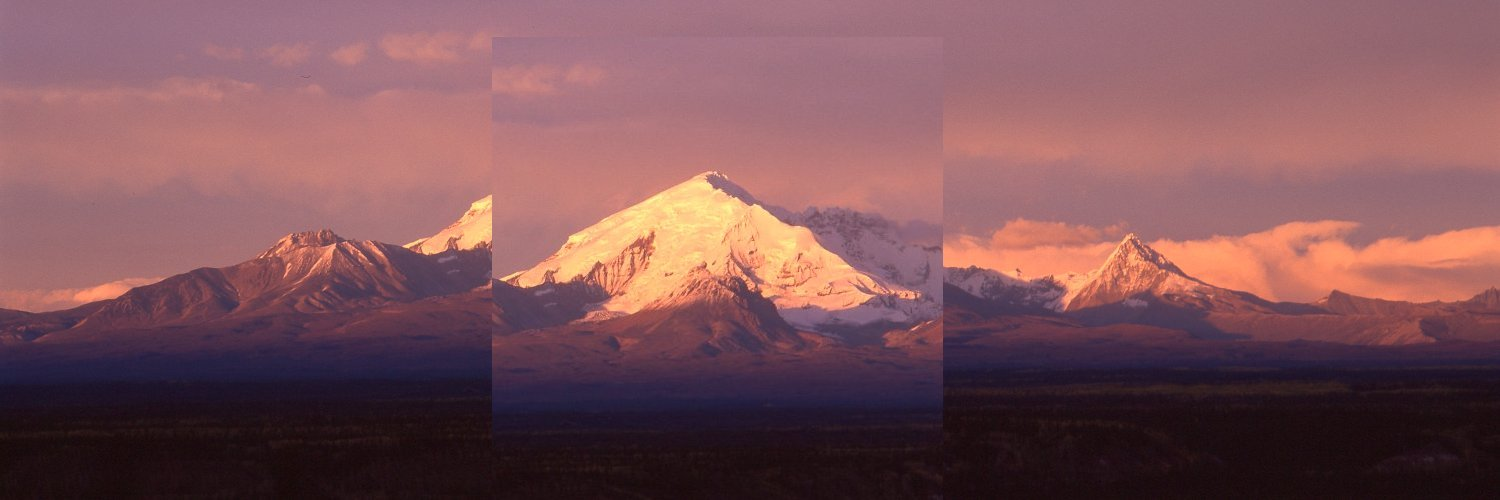
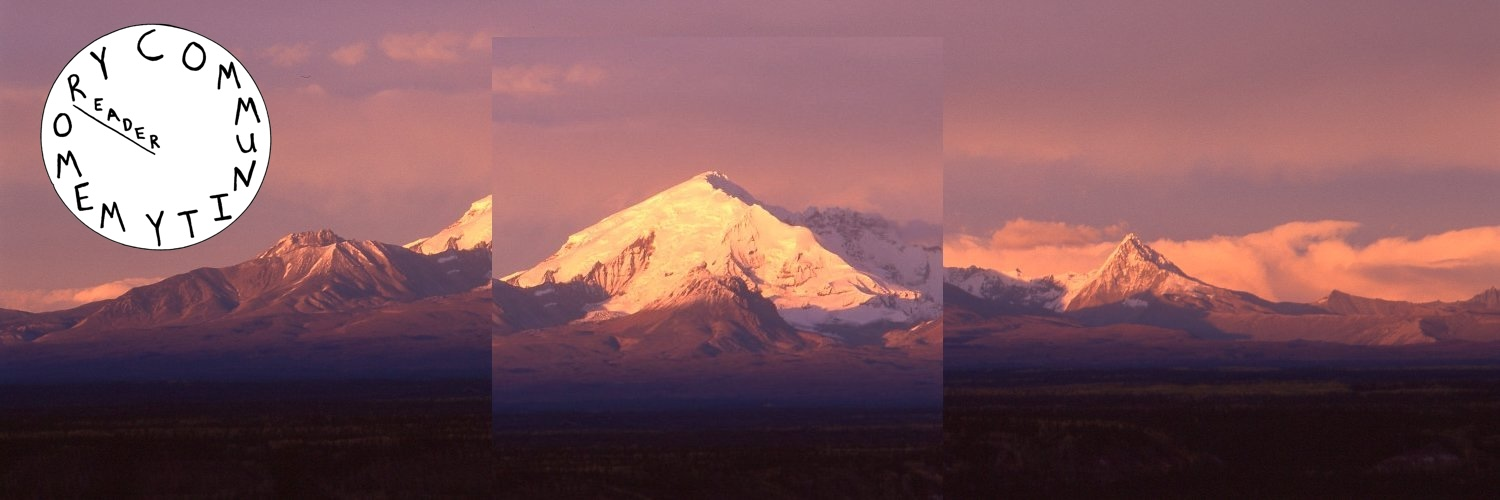
overlaywithlogo

Changed region(s): [[0.0, 0.03, 0.184, 0.51]]

diff --git a/content/_index.md b/content/_index.md
@@ -1,7 +1,7 @@
 ---
 title: Community Memory
-description: "A framework for building resilient communities anchored in relationship and empowered by collaborative technology"
-image: "/media/image9.png"
+summary: "A framework for building resilient communities anchored in relationship and empowered by collaborative technology"
+customImage: "overlay.jpeg"
 enableToc: false
 ---
 
